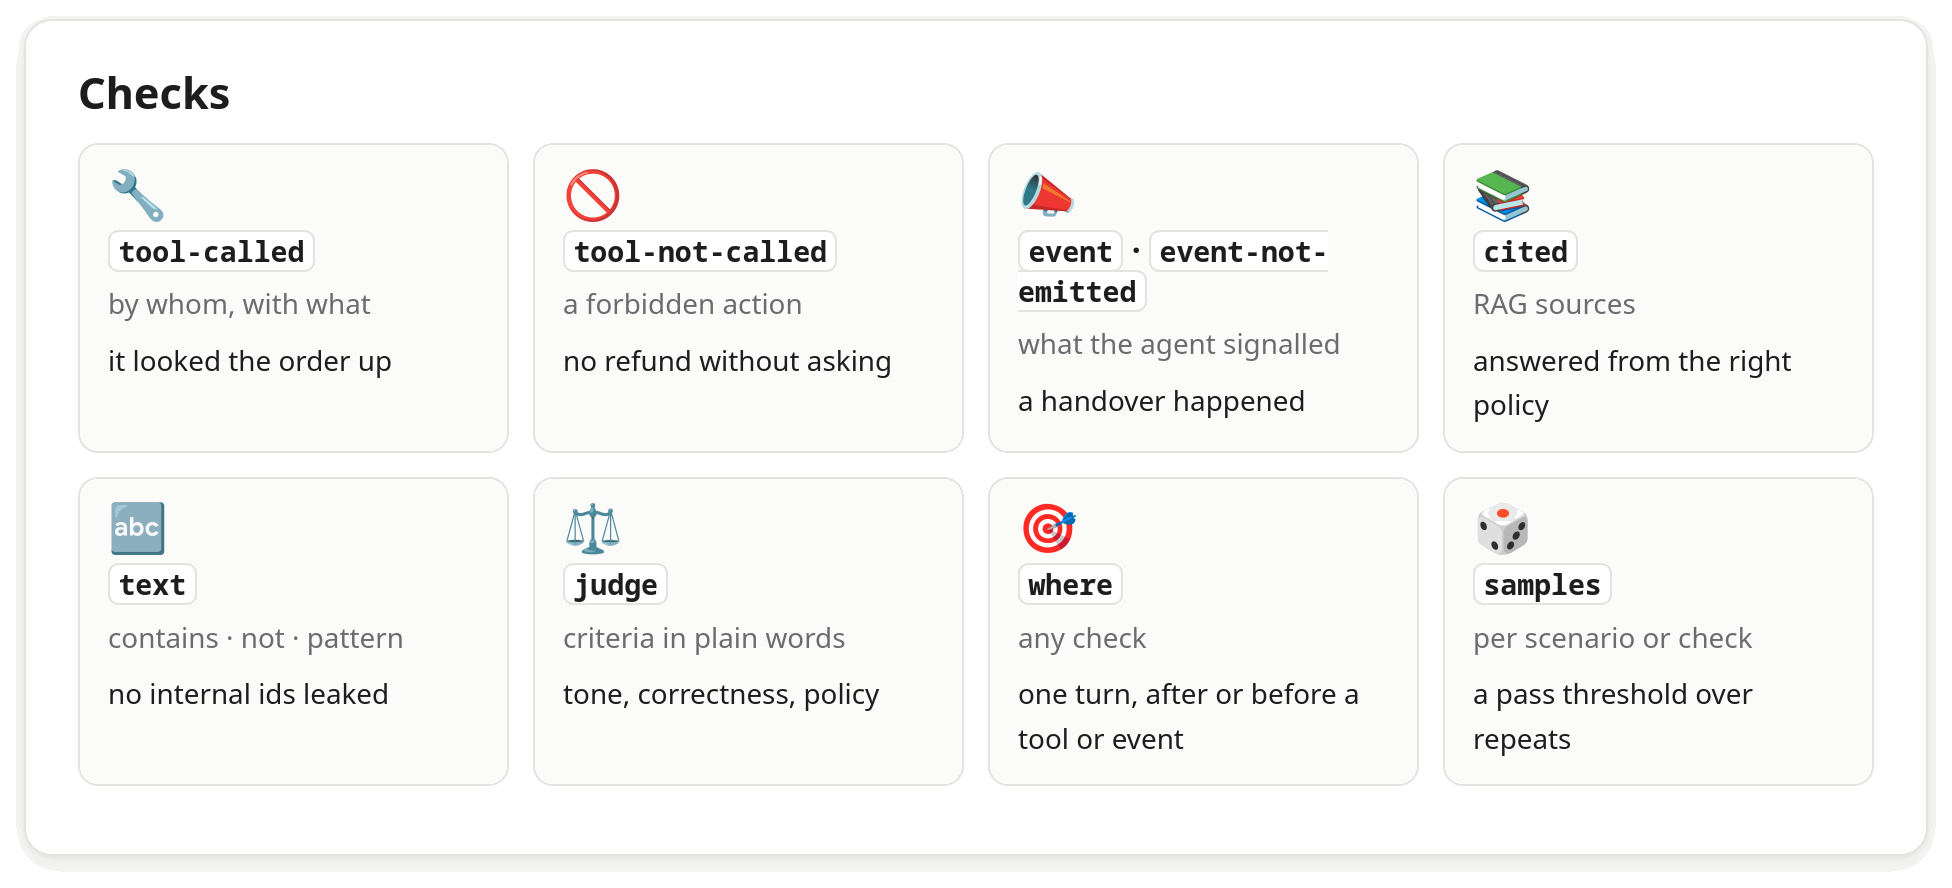
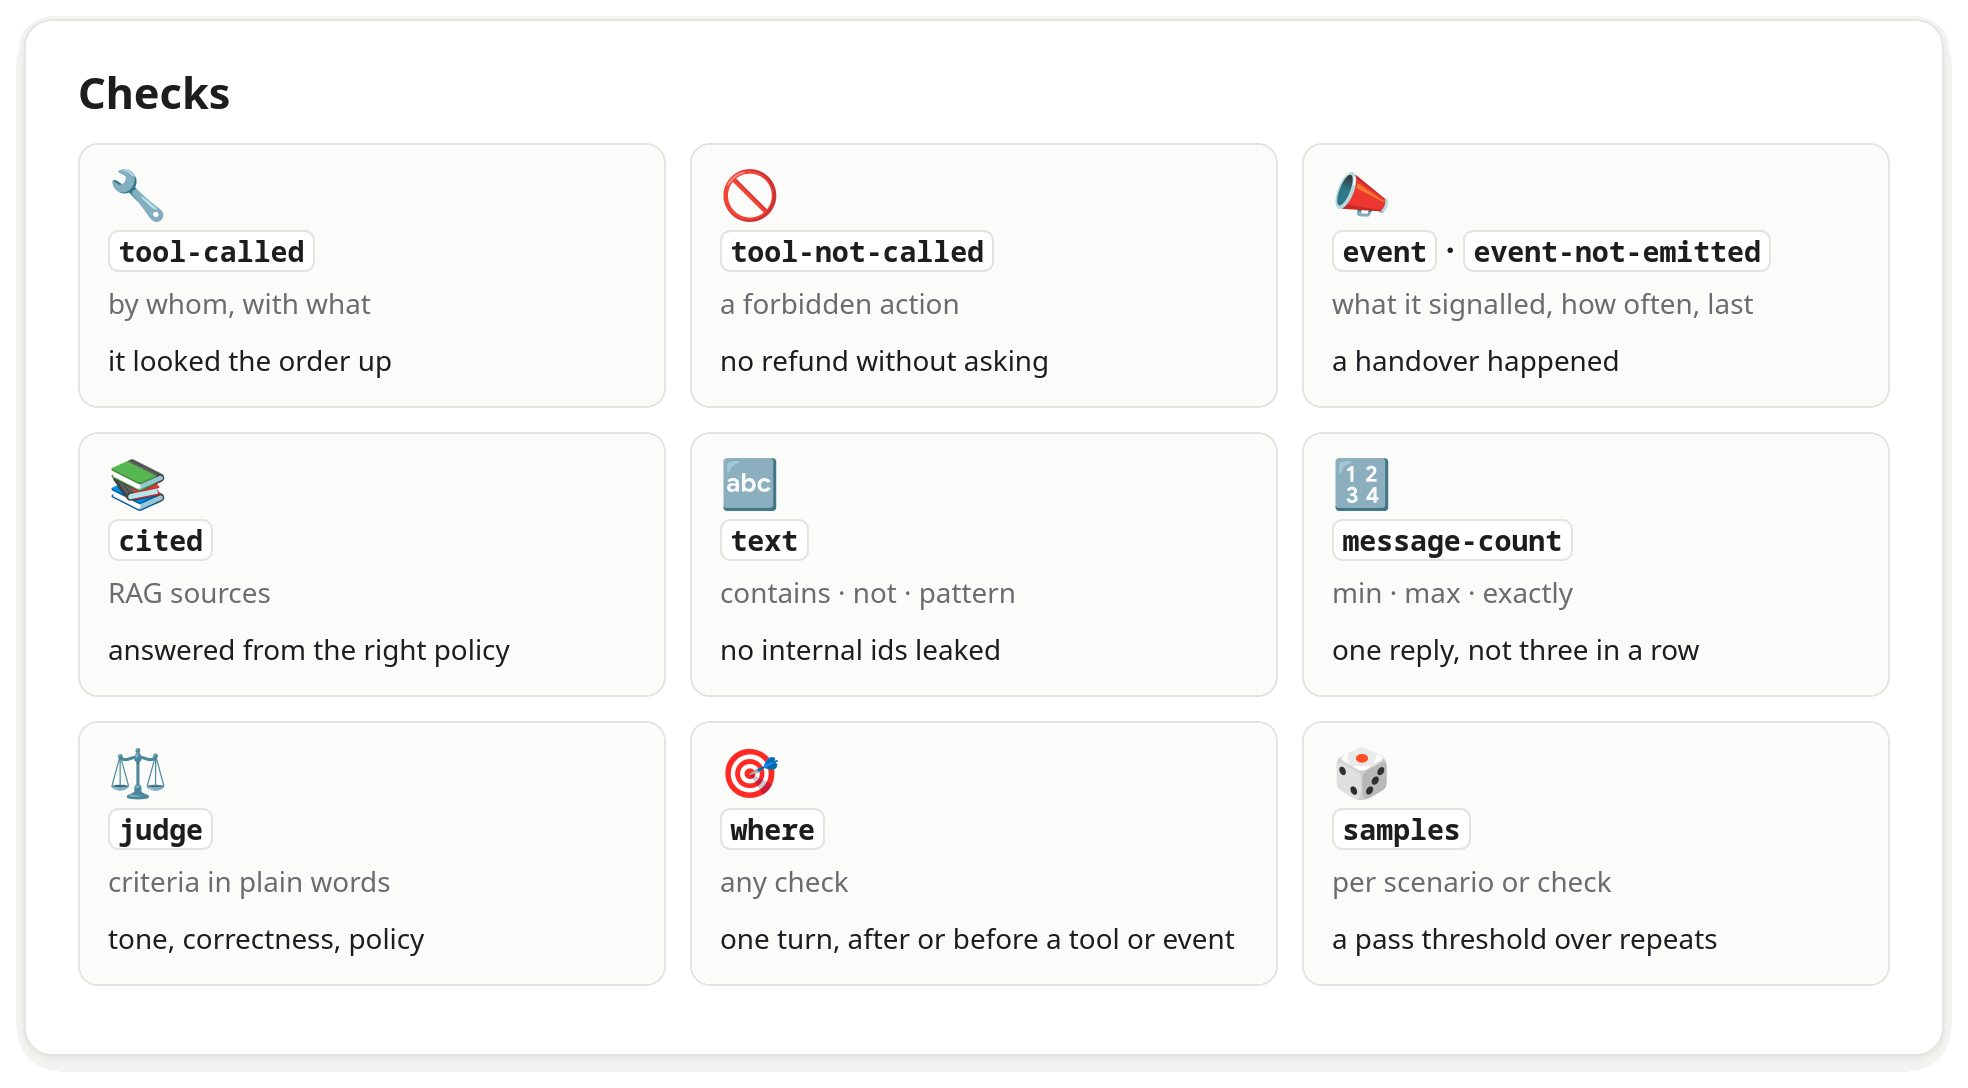
[docs] updated README for message-count, the gate command, refusals and the compare limit

diff --git a/docs/visual/board/readme.html b/docs/visual/board/readme.html
@@ -379,7 +379,7 @@ pre.out { font: 12px/1.5 var(--mono); background: var(--code-bg); border: 1px so
     </div>
     <div class="stats">
       <div><b>2</b><span>areas: Evaluation and Monitoring</span></div>
-      <div><b>7</b><span>check types, one a model judge</span></div>
+      <div><b>8</b><span>check types, one a model judge</span></div>
       <div><b>3 of 8</b><span>check states fail CI</span></div>
       <div><b>any</b><span>agent language: two HTTP routes</span></div>
     </div>
@@ -424,7 +424,7 @@ pre.out { font: 12px/1.5 var(--mono); background: var(--code-bg); border: 1px so
   <div class="cards" style="--cols:4">
     <div><span class="ico">📉</span><h4>Regressions</h4><p class="when">every run</p><p>each check judged against its own history</p><div class="foot"><span class="tag accent">CI-ready</span></div></div>
     <div><span class="ico">🎲</span><h4>Unstable checks</h4><p class="when">per version</p><p>flaky checks found, not blamed on the change</p><div class="foot"><span class="tag accent">trend</span></div></div>
-    <div><span class="ico">🔀</span><h4>Compare</h4><p class="when">up to 20 runs</p><p>side by side, against a baseline run</p><div class="foot"><span class="tag accent">web · CLI</span></div></div>
+    <div><span class="ico">🔀</span><h4>Compare</h4><p class="when">up to 7 runs</p><p>side by side, against a baseline run</p><div class="foot"><span class="tag accent">web · CLI</span></div></div>
     <div><span class="ico">🧾</span><h4>Version diff</h4><p class="when">any two versions</p><p>prompts, models, tools read from the agent</p><div class="foot"><span class="tag accent">automatic</span></div></div>
     <div><span class="ico">🗣</span><h4>Simulated users</h4><p class="when">multi-turn</p><p>a model plays a user described in plain words</p><div class="foot"><span class="tag accent">continuation</span></div></div>
     <div><span class="ico">♻</span><h4>Re-check</h4><p class="when">after fixing a check</p><p>stored answers judged again, no agent call</p><div class="foot"><span class="tag accent">recheck</span></div></div>
@@ -442,12 +442,13 @@ pre.out { font: 12px/1.5 var(--mono); background: var(--code-bg); border: 1px so
 
 <section id="checks">
   <h2>Checks</h2>
-  <div class="cards" style="--cols:4">
+  <div class="cards" style="--cols:3">
     <div><span class="ico">🔧</span><h4><code>tool-called</code></h4><p class="when">by whom, with what</p><p>it looked the order up</p></div>
     <div><span class="ico">🚫</span><h4><code>tool-not-called</code></h4><p class="when">a forbidden action</p><p>no refund without asking</p></div>
-    <div><span class="ico">📣</span><h4><code>event</code> · <code>event-not-emitted</code></h4><p class="when">what the agent signalled</p><p>a handover happened</p></div>
+    <div><span class="ico">📣</span><h4><code>event</code> · <code>event-not-emitted</code></h4><p class="when">what it signalled, how often, last</p><p>a handover happened</p></div>
     <div><span class="ico">📚</span><h4><code>cited</code></h4><p class="when">RAG sources</p><p>answered from the right policy</p></div>
     <div><span class="ico">🔤</span><h4><code>text</code></h4><p class="when">contains · not · pattern</p><p>no internal ids leaked</p></div>
+    <div><span class="ico">🔢</span><h4><code>message-count</code></h4><p class="when">min · max · exactly</p><p>one reply, not three in a row</p></div>
     <div><span class="ico">⚖</span><h4><code>judge</code></h4><p class="when">criteria in plain words</p><p>tone, correctness, policy</p></div>
     <div><span class="ico">🎯</span><h4><code>where</code></h4><p class="when">any check</p><p>one turn, after or before a tool or event</p></div>
     <div><span class="ico">🎲</span><h4><code>samples</code></h4><p class="when">per scenario or check</p><p>a pass threshold over repeats</p></div>

diff --git a/README.md b/README.md
@@ -1,6 +1,6 @@
 <picture>
   <source media="(prefers-color-scheme: dark)" srcset="docs/visual/board/img/readme/hero-dark.png">
-  <img alt="Suwageval — regression tests for LLM agents before a release, and checks on their real conversations after it. Scenarios as YAML, regressions not noise, production monitoring, a Claude Code plugin. A sample run: gives-tracking-link is a regression (passed 5 times, fails now), declines-politely is unstable, mentions-carrier is fixed; exit 1 for one regression. 2 areas (Evaluation and Monitoring), 7 check types (one a model judge), 3 of 8 check states fail CI, any agent language (two HTTP routes)." src="docs/visual/board/img/readme/hero-light.png" width="100%">
+  <img alt="Suwageval — regression tests for LLM agents before a release, and checks on their real conversations after it. Scenarios as YAML, regressions not noise, production monitoring, a Claude Code plugin. A sample run: gives-tracking-link is a regression (passed 5 times, fails now), declines-politely is unstable, mentions-carrier is fixed; exit 1 for one regression. 2 areas (Evaluation and Monitoring), 8 check types (one a model judge), 3 of 8 check states fail CI, any agent language (two HTTP routes)." src="docs/visual/board/img/readme/hero-light.png" width="100%">
 </picture>
 
 **Suwageval** tests LLM agents the way unit tests test code. Scenarios — a conversation plus checks on the agent's next
@@ -62,7 +62,9 @@ suwageval push           # the agent and its scenarios
 suwageval run --wait     # regressions first; exit 1 only on a regression, a new failure or an agent error
 ```
 
-The same two last lines go into CI.
+The same two last lines go into CI. A request the server refuses says what is wrong, where, and how to fix it, in the CLI and on
+the web. When scenarios guard a spec's acceptance criteria, `suwageval gate` runs them on the project's own gate
+([docs/scenario-format.md#the-gate](docs/scenario-format.md#the-gate)).
 
 ## What you get
 
@@ -89,7 +91,7 @@ and multi-turn **simulation** where a model plays a user you describe in plain w
 
 <picture>
   <source media="(prefers-color-scheme: dark)" srcset="docs/visual/board/img/readme/checks-dark.png">
-  <img alt="Checks: tool-called (the agent called a tool, optionally by which LLM agent and with which arguments); tool-not-called (a forbidden action); event and event-not-emitted (what the agent signalled); cited (the RAG sources the answer used); text (contains, does not contain, matches a pattern); judge (a model decides against criteria in plain words). Any check can be narrowed with where (one turn, after or before a tool or event), and samples with a pass threshold count repeats." src="docs/visual/board/img/readme/checks-light.png" width="100%">
+  <img alt="Checks: tool-called (the agent called a tool, optionally by which LLM agent and with which arguments); tool-not-called (a forbidden action); event and event-not-emitted (what the agent signalled, how often, or last); cited (the RAG sources the answer used); text (contains, does not contain, matches a pattern); message-count (how many messages, within min, max or exactly); judge (a model decides against criteria in plain words). Any check can be narrowed with where (one turn, after or before a tool or event), and samples with a pass threshold count repeats." src="docs/visual/board/img/readme/checks-light.png" width="100%">
 </picture>
 
 <picture>
